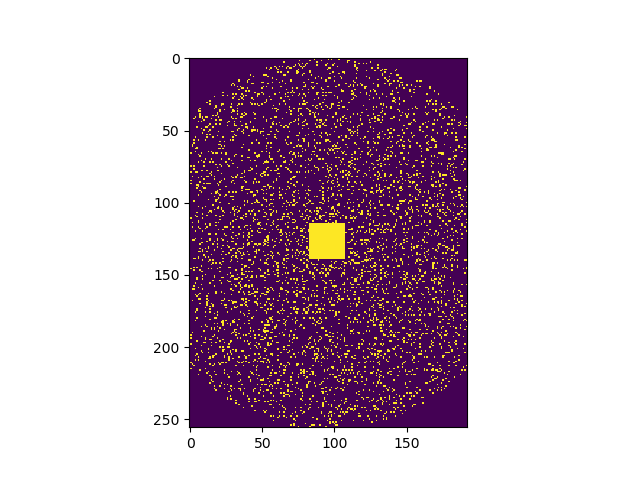
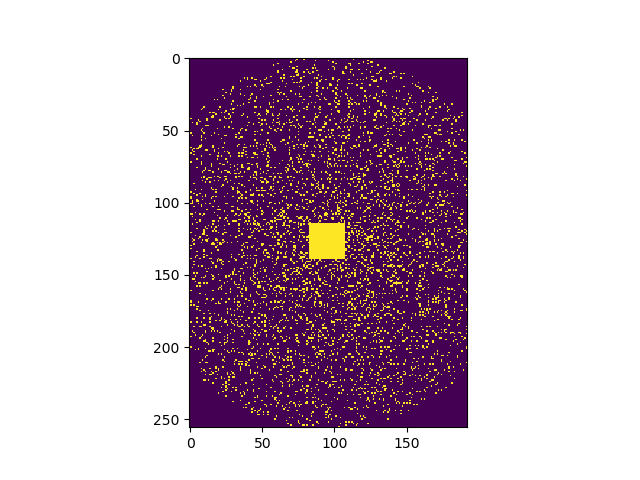
multi-gpu inference

Changed region(s): [[0.2812, 0.125, 0.7188, 0.875]]

diff --git a/models/dc_st_pmask.py b/models/dc_st_pmask.py
@@ -87,14 +87,15 @@ class DC_ST_Pmask(nn.Module):
             temp = (torch.rand(nrow, ncol)-0.5)*30
             temp[nrow//2-13 : nrow//2+12, ncol//2-13 : ncol//2+12] = 15
         if flag_ND != 2:
-            self.weight_parameters = nn.Parameter(temp, requires_grad=True)
+            self.weight_parameters = nn.Parameter(temp, requires_grad=True).to('cuda')
         else:
             self.weight_parameters1 = nn.Parameter(temp1, requires_grad=True)
             self.weight_parameters2 = nn.Parameter(temp2, requires_grad=True)
 
         # flag for all the solvers
         if flag_solver == -3:
-            self.lambda_dll2 = nn.Parameter(torch.ones(1)*lambda_dll2, requires_grad=False)
+            self.lambda_dll2 = nn.Parameter(torch.ones(1)*lambda_dll2, requires_grad=False).to('cuda')
+            # self.lambda_dll2 = nn.Parameter(torch.ones(1)*lambda_dll2, requires_grad=False)
         elif flag_solver == -2:
             self.lambda_dll2 = nn.Parameter(torch.ones(1)*lambda_dll2, requires_grad=True)
         elif -2 < flag_solver < 1:
@@ -204,11 +205,11 @@ class DC_ST_Pmask(nn.Module):
 
     def forward(self, kdata, csms):
         device = kdata.get_device()
-        if self.flag_ND != 2:
-            self.weight_parameters = self.weight_parameters.to(device)
-        else:
-            self.weight_parameters1 = self.weight_parameters1.to(device)
-            self.weight_parameters2 = self.weight_parameters2.to(device)
+        # if self.flag_ND != 2:
+        #     self.weight_parameters = self.weight_parameters.to(device)
+        # else:
+        #     self.weight_parameters1 = self.weight_parameters1.to(device)
+        #     self.weight_parameters2 = self.weight_parameters2.to(device)
         masks = self.generateMask()[None, :, :, None]
         self.Pmask = self.Pmask
         self.masks = self.Mask
@@ -229,10 +230,10 @@ class DC_ST_Pmask(nn.Module):
             masks = self.pmask_BO > u
             masks[128-13:128+12, 96-13:96+12] = 1
 
-            plt.figure()
-            plt.imshow(masks)
-            plt.savefig('mask.png')
-            plt.close()
+            # plt.figure()
+            # plt.imshow(masks)
+            # plt.savefig('mask.png')
+            # plt.close()
 
         if self.flag_fix:
             masks = masks[np.newaxis, ..., np.newaxis]

diff --git a/bayesOpt/sample_loss.py b/bayesOpt/sample_loss.py
@@ -3,6 +3,8 @@
 
 import numpy as np
 import math
+import torch
+import time
 
 from models.dc_st_pmask import *
 from utils.test import *
@@ -52,18 +54,24 @@ def recon_loss(params, data_loader, device, sampling_ratio=0.1):
     model = DC_ST_Pmask(input_channels=2, filter_channels=32, lambda_dll2=1e-4, 
                         lambda_tv=1e-4, rho_penalty=1e-2, flag_ND=3, flag_solver=-3, 
                         flag_TV=1, K=5, rescale=True, samplingRatio=sampling_ratio, flag_fix=1, pmask_BO=p_pattern)
+    if torch.cuda.device_count() > 1:
+        model = torch.nn.DataParallel(model)
     metrices_test = Metrices()
-    model.to(device)
-    for idx, (inputs, targets, csms, brain_masks) in enumerate(data_loader):
-        # if idx % 10 == 0:
-            # print('Reconstructing slice #{0}'.format(idx))
-        inputs = inputs.to(device)
-        targets = targets.to(device)
-        csms = csms.to(device)
-        # calculating metrices
-        Xs = model(inputs, csms)
-        metrices_test.get_metrices(Xs[-1], targets)
+    # model.to(device)
+    model.cuda()
+    t0 = time.time()
+    with torch.no_grad(): 
+        for idx, (inputs, targets, csms, brain_masks) in enumerate(data_loader):
+            # if idx % 10 == 0:
+                # print('Reconstructing slice #{0}'.format(idx))
+            inputs = inputs.cuda()
+            targets = targets.cuda()
+            csms = csms.cuda()
+            # calculating metrices
+            Xs = model(inputs, csms)
+            metrices_test.get_metrices(Xs[-1], targets)
     ave_psnr = np.mean(np.asarray(metrices_test.PSNRs))
+    print('Total Time to evaluate objective function once is: %.2f' % (time.time()-t0))
     return 10**(ave_psnr-39)
 
 

diff --git a/main_BO.py b/main_BO.py
@@ -55,7 +55,7 @@ if __name__ == '__main__':
 
     # typein parameters
     parser = argparse.ArgumentParser(description='BO-LOUPE')
-    parser.add_argument('--gpu_id', type=str, default='0')
+    parser.add_argument('--gpu_id', type=str, default='0, 1')
     parser.add_argument('--flag_policy', type=int, default=0)  # 0 for EI, 1 for KG
     parser.add_argument('--cross_val', type=int, default=0)    # 0 for not doing cross-validation, 1 for doing cross-validation
     opt = {**vars(parser.parse_args())}
@@ -68,7 +68,8 @@ if __name__ == '__main__':
 
     os.environ['CUDA_VISIBLE_DEVICES'] = opt['gpu_id']
 
-    print('Contrast is {0}, Sampling ratio is {1}'.format(contrast, sampling_ratio))
+    print('Contrast is {0}, sampling ratio is {1}, use {2} GPU(s)!'.format(
+        contrast, sampling_ratio, torch.cuda.device_count()))
 
     rootName = '/data/Jinwei/{0}_slice_recon_GE'.format(contrast)
     device = torch.device('cuda' if torch.cuda.is_available() else 'cpu')
